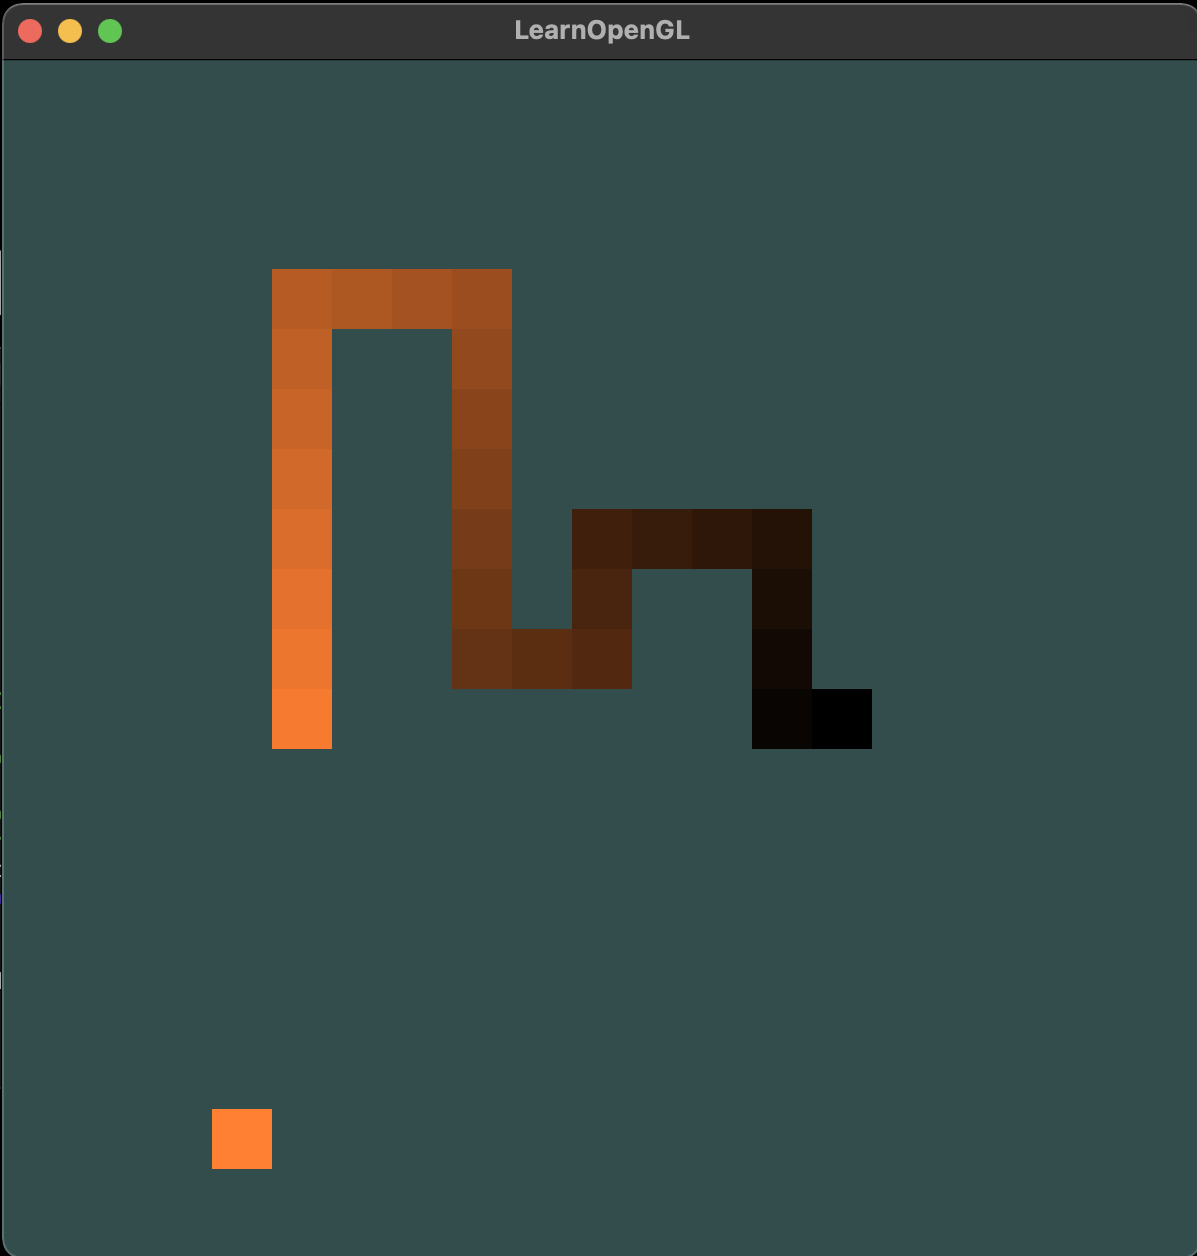
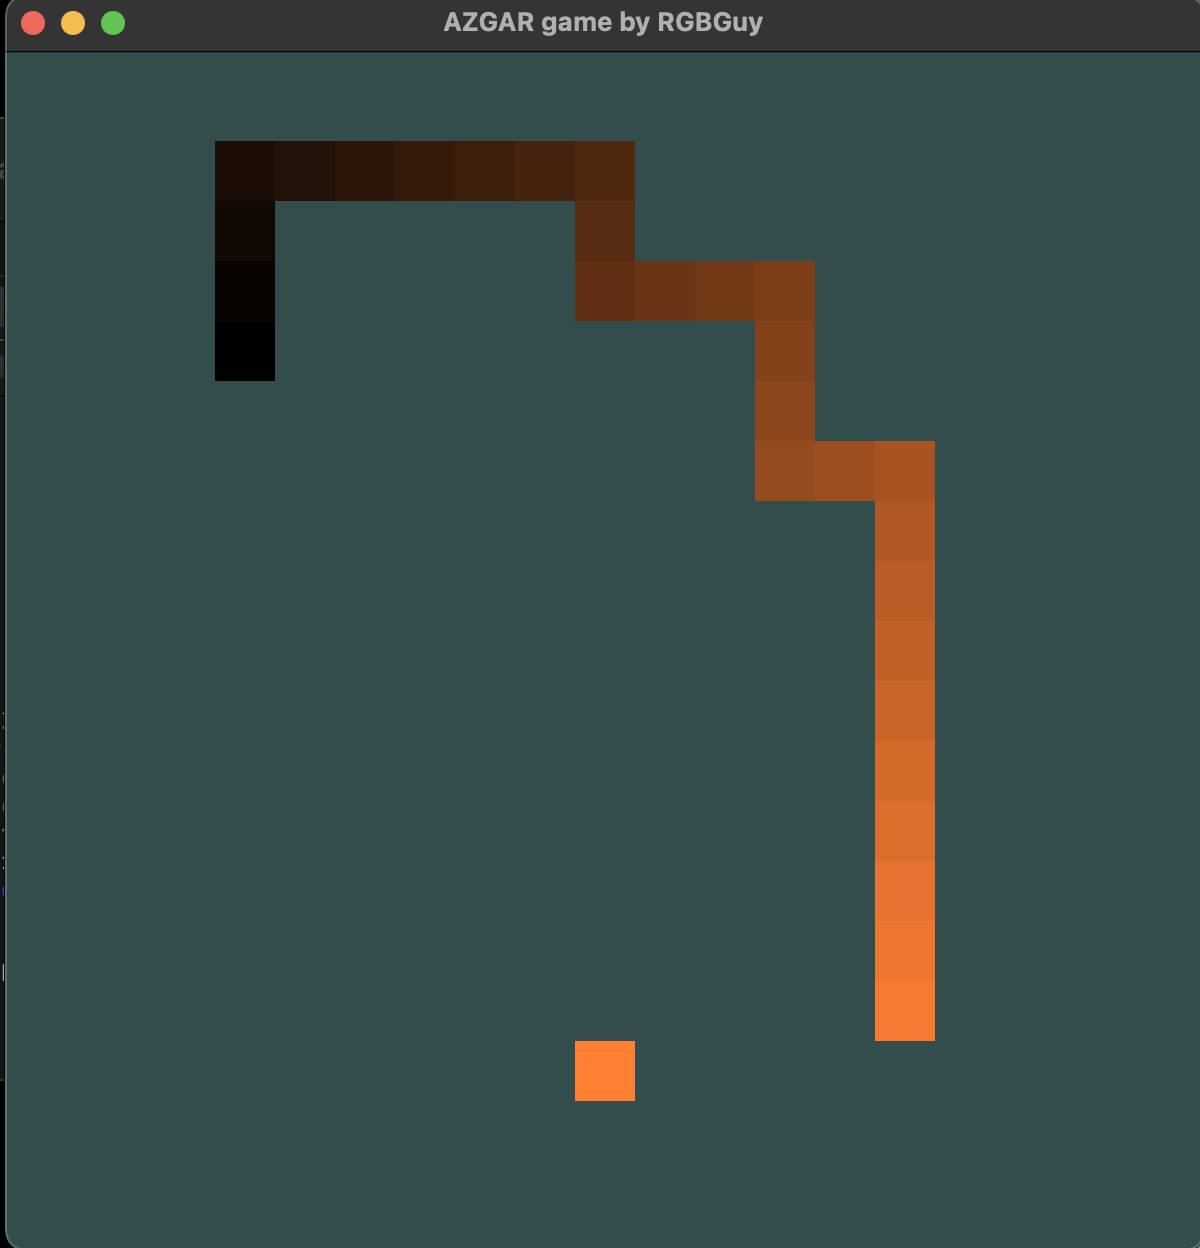
Updated Readme. And Image

diff --git a/src/private/main.cpp b/src/private/main.cpp
@@ -155,7 +155,7 @@ GLFWwindow* Init()
 #endif
 
     // glfw window creation
-    GLFWwindow* window = glfwCreateWindow(SCR_WIDTH, SCR_HEIGHT, "LearnOpenGL", NULL, NULL);
+    GLFWwindow* window = glfwCreateWindow(SCR_WIDTH, SCR_HEIGHT, "AZGAR game by RGBGuy", NULL, NULL);
     if (window == NULL)
     {
         std::cout << "Failed to create GLFW window" << std::endl;

diff --git a/README.md b/README.md
@@ -1,5 +1,5 @@
 # Azgar
 
 > Move the snake using ASWD keys. Eat the blocks to grow the snake.
-![Game Screenshot](https://github.com/rgbguy/Azgar/tree/main/res/images/Azgar.png?raw=true)
+![Game Screenshot](https://github.com/rgbguy/Azgar/blob/main/res/images/Azgar.png?raw=true)
 
